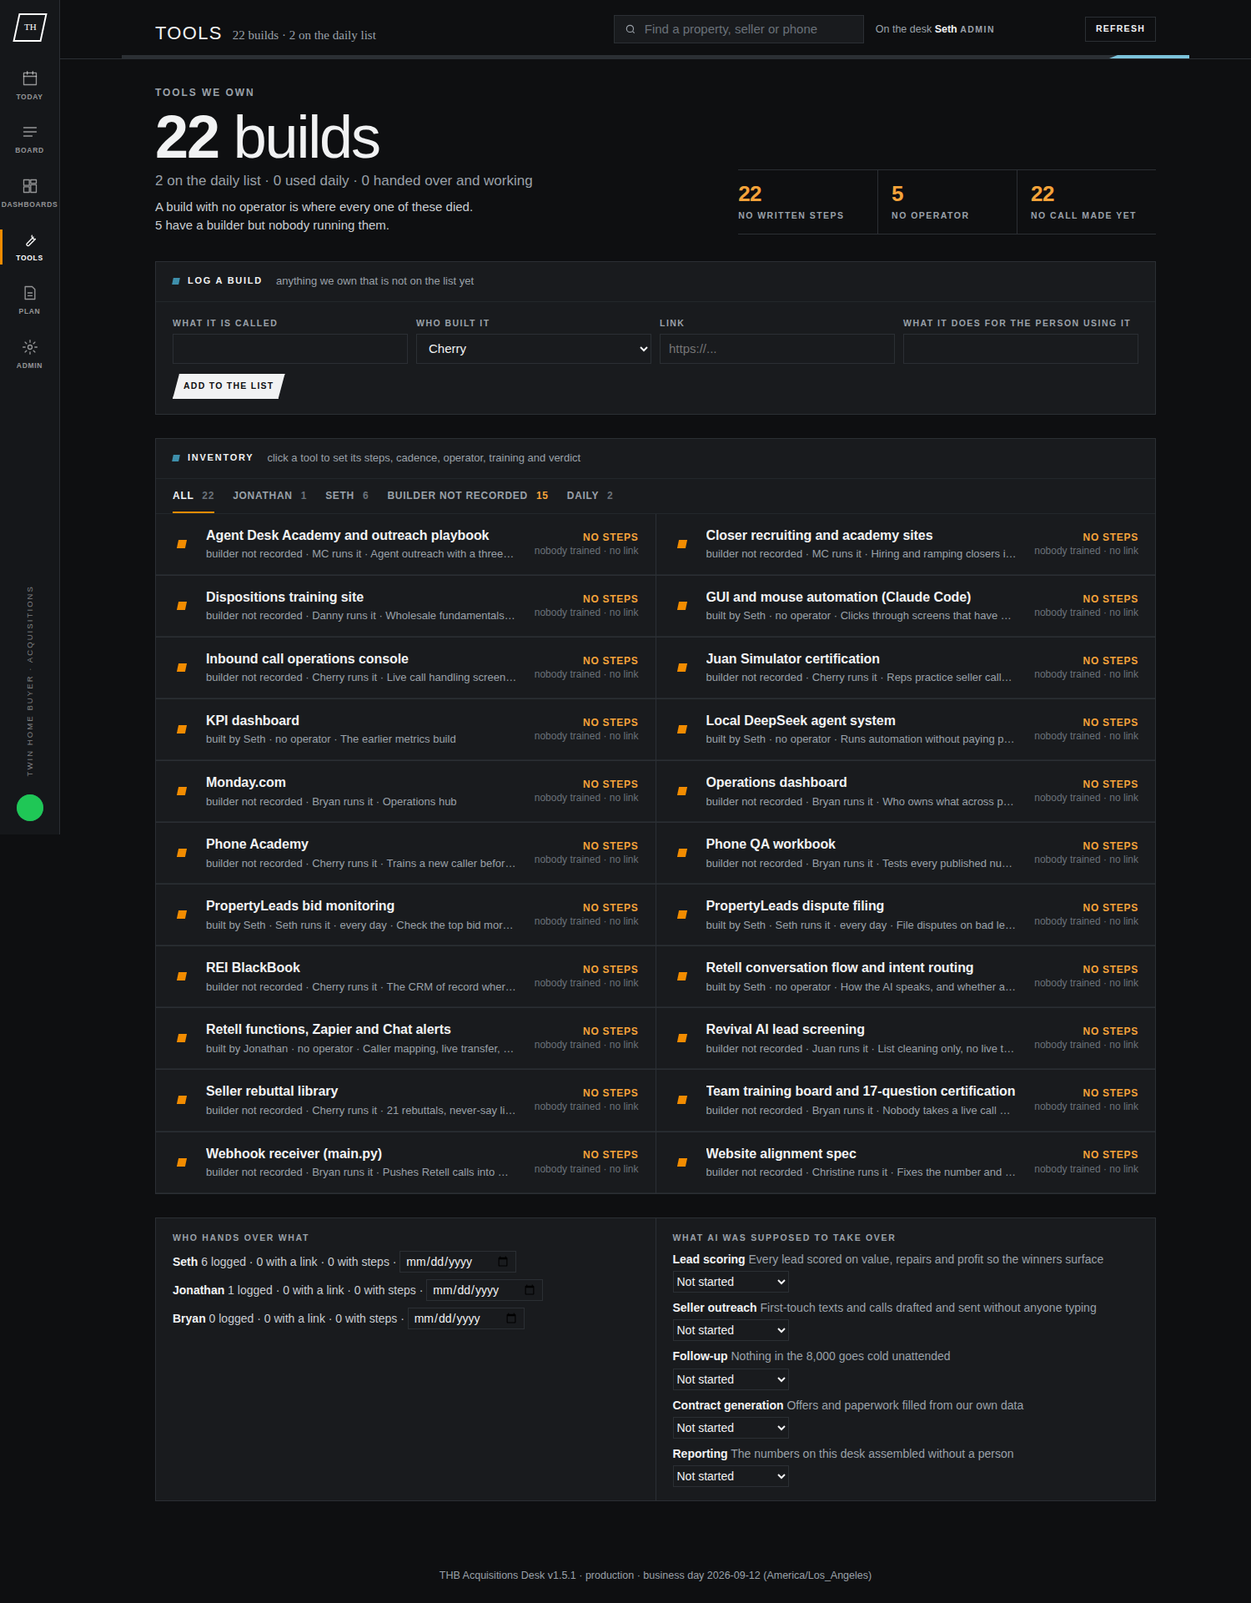
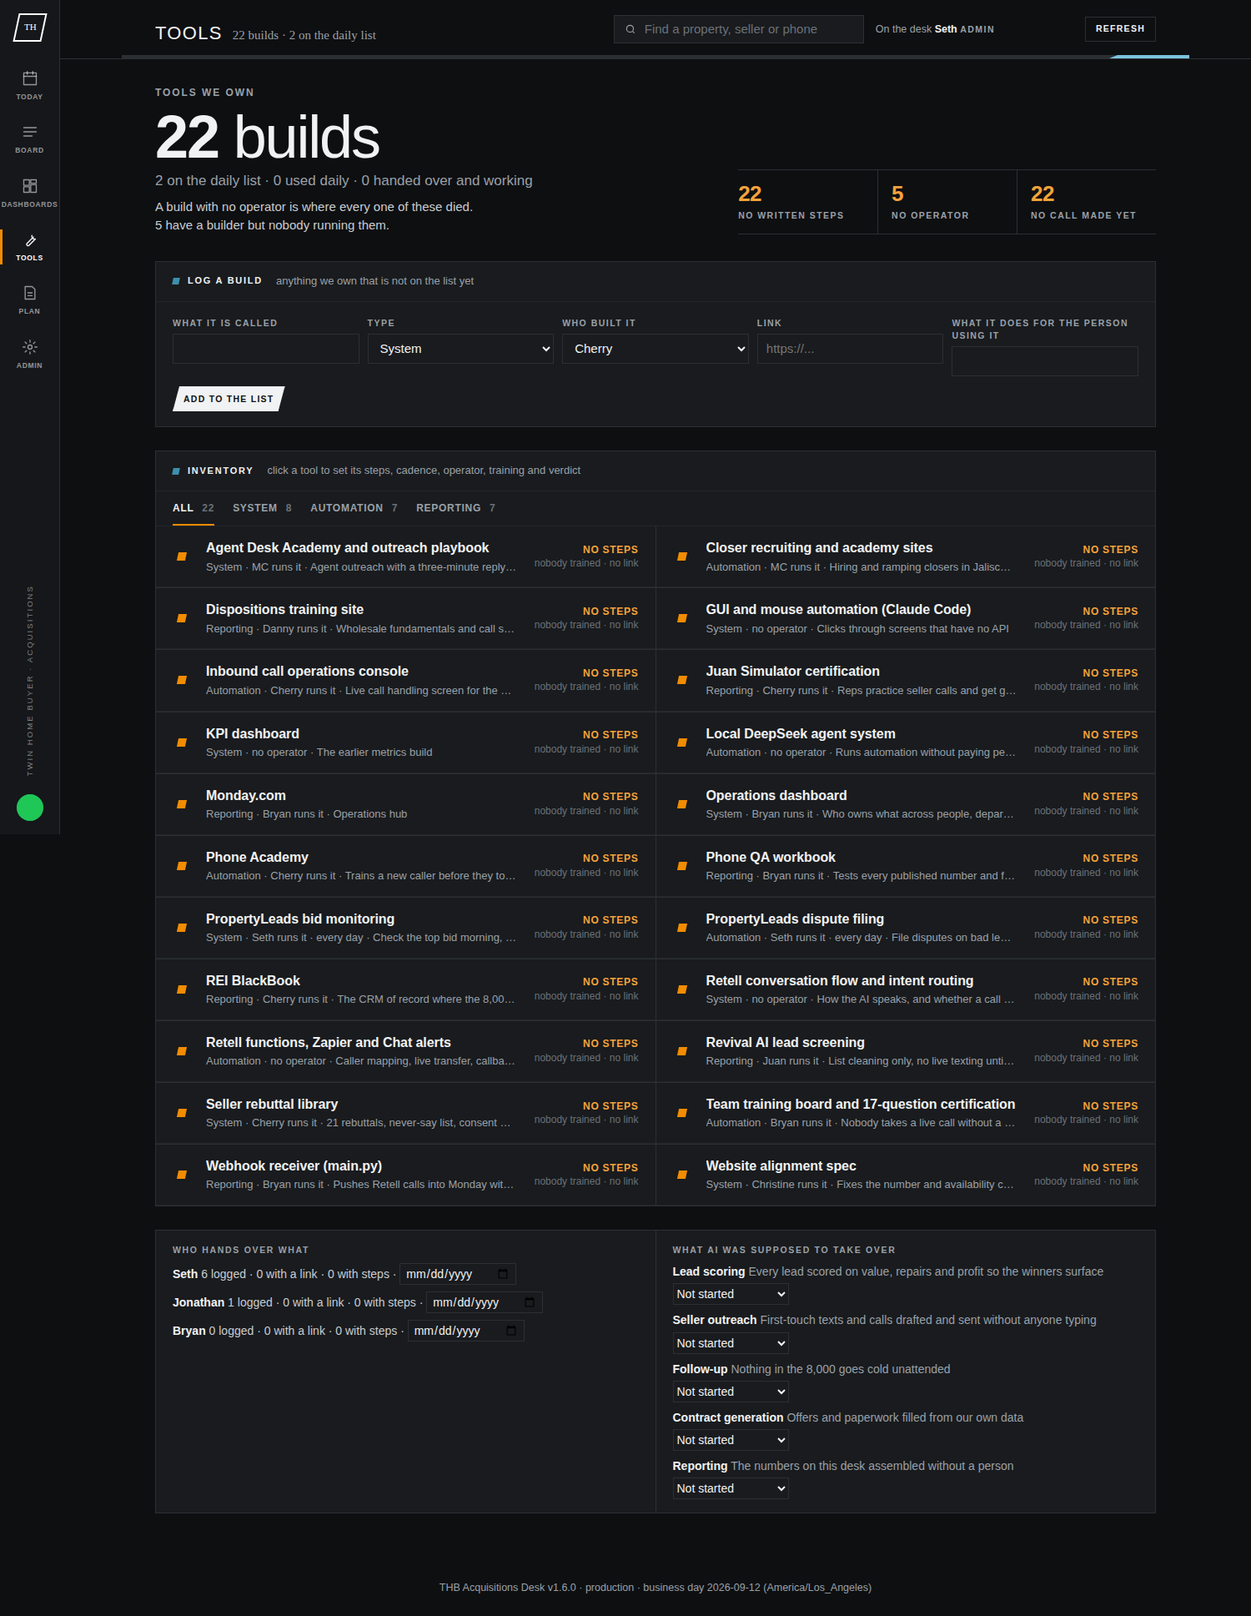
v1.6.1: filter the tool inventory by type instead of by builder
Every build gets a Type of System, Automation or Reporting. The inventory
tabs are those three plus All, set on the Log a build form and changeable on
the tool. A build with no type yet gets its own tab so nothing hides, and that
tab disappears once everything is typed. The row leads with the type in place
of the builder, who is still on the tool and in the handover panel.

Claude-Session: https://claude.ai/code/session_01PD4vD51siFq5jYyNjR6B3w

diff --git a/apps/acquisitions-desk/src/Scripts.html b/apps/acquisitions-desk/src/Scripts.html
@@ -57,6 +57,7 @@
     var f=boot.first_screen||{};
     if(f.today){todayData=f.today;today=todayData.today;juan=f.today.juan||f.juan||null;renderToday();loaded.today=true}
     if(f.board){seedBoard(f.board);loaded.leads=true}
+    $('newToolType').innerHTML=opt(C.tool_types);
     if(f.tools){toolsData=f.tools;renderTools();loaded.tools=true}
     show(prefs.tab||'today');
     if(!f.today||!f.board||!f.tools)loadAll(); /* older server, or a section this person cannot see */
@@ -372,7 +373,7 @@
   $('saveTargets').onclick=function(){$('targetMsg').textContent='Saving…';call('saveSetting','monthly_deal_target',Number($('t_deals').value)||0).then(function(){return call('saveSetting','monthly_marketing_budget',Number($('t_budget').value)||0)}).then(function(){S.monthly_deal_target=Number($('t_deals').value)||0;S.monthly_marketing_budget=Number($('t_budget').value)||0;$('targetMsg').textContent='Saved';editing=false;dashDrawn='';return loadDash().then(animateIn)}).catch(function(e){$('targetMsg').textContent=showError(e)})};
 
   /* ================= TOOLS ================= */
-  var builder='';
+  var toolType='';
   function loadTools(){return read('getTools').then(function(r){toolsData=r.data;renderTools();if(todayData){todayData.tools_today=toolsData.tools_today;renderRunsToday(toolsData.tools_today)}if(view==='tools')$('viewSub').textContent=TITLES.tools[1]()})}
   function renderTools(){var T=toolsData,tools=T.tools;
     var used=tools.filter(function(t){return t.status==='Live and used daily'}).length,nosteps=tools.filter(function(t){return !t.steps}).length,untrained=tools.filter(function(t){return !t.trained.length}).length,noop=tools.filter(function(t){return !t.operator}).length,undec=tools.filter(function(t){return (t.recommendation||'Decide')==='Decide'}).length,handed=tools.filter(function(t){return t.verdict==='Works, in use'}).length;
@@ -380,14 +381,17 @@
     $('toolNote').textContent=noop?('A build with no operator is where every one of these died. '+noop+' have a builder but nobody running them.'):nosteps?('Steps are missing on '+nosteps+' of them. A tool without steps gets used once and abandoned.'):untrained?'Every tool has steps. Now mark who is trained so it survives one person being out.':'Steps written and people trained on all of them.';
     $('toolTally').innerHTML=fact(nosteps,'no written steps',nosteps?'alert':'')+fact(noop,'no operator',noop?'alert':'')+fact(undec,'no call made yet',undec?'alert':'');
     var builders={};tools.forEach(function(t){if(t.built_by)builders[t.built_by]=(builders[t.built_by]||0)+1});
-    $('builderFilter').innerHTML='<button data-b=""'+(builder===''?' aria-selected="true"':'')+'>All <span class="c">'+tools.length+'</span></button>'+Object.keys(builders).sort().map(function(b){return '<button data-b="'+esc(b)+'"'+(builder===b?' aria-selected="true"':'')+'>'+esc(b)+' <span class="c">'+builders[b]+'</span></button>'}).join('')+'<button data-b="__none"'+(builder==='__none'?' aria-selected="true"':'')+'>Builder not recorded <span class="c hot">'+tools.filter(function(t){return !t.built_by}).length+'</span></button><button data-b="__daily"'+(builder==='__daily'?' aria-selected="true"':'')+'>Daily <span class="c">'+tools.filter(function(t){return t.is_daily}).length+'</span></button>';
-    var list=tools.filter(function(t){if(!builder)return true;if(builder==='__none')return !t.built_by;if(builder==='__daily')return t.is_daily;return t.built_by===builder});
+    var counts={};tools.forEach(function(t){var k=t.tool_type||'__none';counts[k]=(counts[k]||0)+1});
+    var tabs=[{k:'',label:'All',n:tools.length}].concat(C.tool_types.map(function(ty){return {k:ty,label:ty,n:counts[ty]||0}}));
+    if(counts.__none)tabs.push({k:'__none',label:'No type yet',n:counts.__none});
+    $('typeFilter').innerHTML=tabs.map(function(t){return '<button data-b="'+esc(t.k)+'"'+(toolType===t.k?' aria-selected="true"':'')+'>'+esc(t.label)+' <span class="c">'+t.n+'</span></button>'}).join('');
+    var list=tools.filter(function(t){return !toolType||(toolType==='__none'?!t.tool_type:t.tool_type===toolType)});
     $('toolList').innerHTML=list.length?list.map(function(t){var ok=t.verdict==='Works, in use',bad=!t.steps||!t.operator;var st=ok?'Works, in use':t.verdict==='Broken, sent back'?'Broken, sent back':!t.steps?'No steps':!t.operator?'No operator':t.verdict==='Needs training first'?'Needs training':'Not handed over';
-      return '<div class="row two clickable" id="tool-'+esc(t.tool_id)+'" data-tid="'+esc(t.tool_id)+'"><i class="sq'+(ok?' ok':bad?' alert':'')+'"></i><div><div class="t">'+esc(t.name)+'</div><div class="m">'+[t.built_by?'built by '+esc(t.built_by):'builder not recorded',t.operator?esc(t.operator)+' runs it':'no operator',t.is_daily?esc(t.cadence.toLowerCase()):'',esc(t.description)].filter(Boolean).join(' · ')+'</div></div><div class="state'+(ok?'':bad?' alert':'')+'">'+st+'<small>'+(t.trained.length?t.trained.length+' trained':'nobody trained')+(t.link?' · has a link':' · no link')+'</small></div><div class="state">'+esc(t.status)+'<small>status</small></div></div>'}).join(''):'<div class="empty">No tools in this view.</div>';
+      return '<div class="row two clickable" id="tool-'+esc(t.tool_id)+'" data-tid="'+esc(t.tool_id)+'"><i class="sq'+(ok?' ok':bad?' alert':'')+'"></i><div><div class="t">'+esc(t.name)+'</div><div class="m">'+[esc(t.tool_type),t.operator?esc(t.operator)+' runs it':'no operator',t.is_daily?esc(t.cadence.toLowerCase()):'',esc(t.description)].filter(Boolean).join(' · ')+'</div></div><div class="state'+(ok?'':bad?' alert':'')+'">'+st+'<small>'+(t.trained.length?t.trained.length+' trained':'nobody trained')+(t.link?' · has a link':' · no link')+'</small></div><div class="state">'+esc(t.status)+'<small>status</small></div></div>'}).join(''):'<div class="empty">No tools in this view.</div>';
     $('rollcall').innerHTML=T.builders.map(function(b){var mine=tools.filter(function(t){return (t.built_by||'').indexOf(b)>-1}),withLink=mine.filter(function(t){return t.link}).length,withSteps=mine.filter(function(t){return t.steps}).length;return '<p><b>'+esc(b)+'</b> '+mine.length+' logged · '+withLink+' with a link · '+withSteps+' with steps · <input type="date" data-asked="'+esc(b)+'" value="'+esc(T.asked[b]||'')+'" title="date asked" style="width:140px;height:26px;border:1px solid var(--line);background:var(--panel);padding:0 6px;color:var(--text)"'+(can('manage_tools')?'':' disabled')+'></p>'}).join('');
     $('pillars').innerHTML=T.pillars.map(function(p){return '<p><b>'+esc(p.name)+'</b> <span class="muted">'+esc(p.what)+'</span><br><select data-pillar="'+esc(p.id)+'" style="height:26px;border:1px solid var(--line);background:var(--panel);color:var(--text);margin-top:4px"'+(can('manage_tools')?'':' disabled')+'>'+opt(T.enums.pillar_states,p.state)+'</select></p>'}).join('');
     if(currentTool){var fresh=tools.filter(function(t){return t.tool_id===currentTool.tool_id})[0];if(fresh){currentTool=fresh;renderToolDrawer()}}}
-  $('builderFilter').addEventListener('click',function(e){var b=e.target.closest('button');if(!b)return;builder=b.dataset.b;renderTools()});
+  $('typeFilter').addEventListener('click',function(e){var b=e.target.closest('button');if(!b)return;toolType=b.dataset.b;renderTools()});
   $('toolList').addEventListener('click',function(e){var r=e.target.closest('[data-tid]');if(r)openTool(r.dataset.tid)});
   function openTool(id){currentTool=toolsData.tools.filter(function(t){return t.tool_id===id})[0];if(!currentTool)return;$('scrim').hidden=false;$('toolDrawer').hidden=false;$('drawer').hidden=true;$('addDrawer').hidden=true;renderToolDrawer()}
   function renderToolDrawer(){var t=currentTool,E=toolsData.enums,ro=can('manage_tools')?'':' disabled';var d=$('toolDrawer');d.dataset.tid=t.tool_id;
@@ -395,7 +399,7 @@
     $('tdLbl').textContent='Tool · '+t.tool_id;$('tdTitle').textContent=t.name;$('tdMeta').textContent=[t.description,t.built_by?'built by '+t.built_by:'',t.operator?t.operator+' runs it':''].filter(Boolean).join(' · ');
     var link=safeUrl(t.link);
     $('tdBody').innerHTML=(link?'<a class="btn ghost sm" href="'+esc(link)+'" target="_blank" rel="noopener noreferrer" style="text-decoration:none;align-self:flex-start">Open it ↗</a>':'<div class="alertbox"><b>No link saved</b>If it has no link here, nobody will find it.</div>')+
-      '<div class="spec one"><dl>'+kv('Status','<select data-tool="status"'+ro+'>'+opt(E.status,t.status)+'</select>')+kv('Recommendation','<select data-tool="recommendation"'+ro+'>'+opt(E.recommendation,t.recommendation||'Decide')+'</select>')+kv('Cadence','<select data-tool="cadence"'+ro+'>'+opt(E.cadence,t.cadence||'Not set')+'</select>')+kv('Built it','<input data-tool="built_by" value="'+esc(t.built_by)+'" placeholder="e.g. Seth"'+ro+'>')+kv('Runs it every day','<input data-tool="operator" value="'+esc(t.operator)+'" placeholder="the operator, not the builder"'+ro+'>')+kv('Covers when out','<input data-tool="backup_operator" value="'+esc(t.backup_operator)+'"'+ro+'>')+kv('Link','<input class="wide" data-tool="link" value="'+esc(t.link)+'" placeholder="https://..."'+ro+'>')+kv('Looks right when','<input class="wide" data-tool="expected_output" value="'+esc(t.expected_output)+'" placeholder="e.g. a fresh list in the export folder"'+ro+'>')+kv('Asked builder for steps','<input type="date" data-tool="asked_date" value="'+esc(t.asked_date)+'"'+ro+'>')+kv('Handed to the user on','<input type="date" data-tool="handoff_date" value="'+esc(t.handoff_date)+'"'+ro+'>')+kv('User verdict','<select data-tool="verdict"'+ro+'>'+opt(E.verdict,t.verdict||'Not handed over yet')+'</select>')+kv('Produced last week','<input class="wide" data-tool="proof_last_week" value="'+esc(t.proof_last_week)+'" placeholder="e.g. 340 records cleared, 12 callbacks"'+ro+'>')+'</dl></div>'+
+      '<div class="spec one"><dl>'+kv('Type','<select data-tool="tool_type"'+ro+'>'+opt([''].concat(C.tool_types),t.tool_type)+'</select>')+kv('Status','<select data-tool="status"'+ro+'>'+opt(E.status,t.status)+'</select>')+kv('Recommendation','<select data-tool="recommendation"'+ro+'>'+opt(E.recommendation,t.recommendation||'Decide')+'</select>')+kv('Cadence','<select data-tool="cadence"'+ro+'>'+opt(E.cadence,t.cadence||'Not set')+'</select>')+kv('Built it','<input data-tool="built_by" value="'+esc(t.built_by)+'" placeholder="e.g. Seth"'+ro+'>')+kv('Runs it every day','<input data-tool="operator" value="'+esc(t.operator)+'" placeholder="the operator, not the builder"'+ro+'>')+kv('Covers when out','<input data-tool="backup_operator" value="'+esc(t.backup_operator)+'"'+ro+'>')+kv('Link','<input class="wide" data-tool="link" value="'+esc(t.link)+'" placeholder="https://..."'+ro+'>')+kv('Looks right when','<input class="wide" data-tool="expected_output" value="'+esc(t.expected_output)+'" placeholder="e.g. a fresh list in the export folder"'+ro+'>')+kv('Asked builder for steps','<input type="date" data-tool="asked_date" value="'+esc(t.asked_date)+'"'+ro+'>')+kv('Handed to the user on','<input type="date" data-tool="handoff_date" value="'+esc(t.handoff_date)+'"'+ro+'>')+kv('User verdict','<select data-tool="verdict"'+ro+'>'+opt(E.verdict,t.verdict||'Not handed over yet')+'</select>')+kv('Produced last week','<input class="wide" data-tool="proof_last_week" value="'+esc(t.proof_last_week)+'" placeholder="e.g. 340 records cleared, 12 callbacks"'+ro+'>')+'</dl></div>'+
       '<div class="field"><label>Steps to run it</label><textarea data-tool="steps" rows="5" placeholder="1. Open ... 2. Run ... 3. Export ..."'+ro+'>'+esc(t.steps)+'</textarea></div>'+
       '<div><div class="lbl" style="margin-bottom:8px">Trained and able to run it alone</div><div class="actions">'+toolsData.people.map(function(p){var on=t.trained.some(function(x){return x.user_id===p.user_id});return '<button class="btn sm'+(on?'':' ghost')+'" data-trained="'+esc(p.user_id)+'" data-on="'+(on?1:0)+'"'+ro+'>'+esc(p.name)+'</button>'}).join('')+'</div></div>';
     if(keep){var f=$('tdBody').querySelector(keep.sel);if(f){f.value=keep.value;f.focus();try{if(keep.s!=null)f.setSelectionRange(keep.s,keep.e)}catch(e){}}}}
@@ -407,7 +411,7 @@
   $('toolDrawer').addEventListener('click',function(e){var b=e.target.closest('button[data-trained]');if(!b||!currentTool)return;b.disabled=true;call('setToolTraining',currentTool.tool_id,b.dataset.trained,b.dataset.on!=='1','').then(loadTools).catch(function(e){showError(e);b.disabled=false})});
   $('view-tools').addEventListener('change',function(e){var t=e.target;if(t.dataset.pillar)call('saveSetting','pillar_'+t.dataset.pillar,t.value).then(loadTools).catch(showError)});
   $('view-tools').addEventListener('blur',function(e){var t=e.target;if(t.dataset.asked!=null&&toolsData&&toolsData.asked[t.dataset.asked]!==t.value)call('saveSetting','asked_'+t.dataset.asked,t.value).then(loadTools).catch(showError)},true);
-  $('addTool').onclick=function(){var nm=$('newTool').value.trim();if(!nm)return;$('addToolMsg').textContent='Adding…';call('createTool',{name:nm,built_by:$('newToolOwner').value,link:$('newToolLink').value.trim(),description:$('newToolJob').value.trim()}).then(function(r){$('newTool').value='';$('newToolLink').value='';$('newToolJob').value='';$('addToolMsg').textContent=r.message;return loadTools()}).catch(function(e){$('addToolMsg').textContent=showError(e)})};
+  $('addTool').onclick=function(){var nm=$('newTool').value.trim();if(!nm)return;$('addToolMsg').textContent='Adding…';call('createTool',{name:nm,tool_type:$('newToolType').value,built_by:$('newToolOwner').value,link:$('newToolLink').value.trim(),description:$('newToolJob').value.trim()}).then(function(r){$('newTool').value='';$('newToolLink').value='';$('newToolJob').value='';$('addToolMsg').textContent=r.message;return loadTools()}).catch(function(e){$('addToolMsg').textContent=showError(e)})};
 
   /* ================= ADMIN ================= */
   var SETTING_FIELDS=[['mao_percentage','MAO % of ARV'],['stale_lead_days','Stale after (days)'],['cpl_ceiling','Cost per lead ceiling $'],['speed_target_minutes','Speed to first call target (min)'],['auto_refresh_seconds','Auto refresh (seconds, 0 = off)'],['business_timezone','Business timezone'],['live_list_target','Live list target'],['page_size','Records per page (10-200)'],['monthly_deal_target','Deals target per month'],['monthly_marketing_budget','Marketing budget per month $']];

diff --git a/apps/acquisitions-desk/test/e2e.js b/apps/acquisitions-desk/test/e2e.js
@@ -117,6 +117,22 @@ const assert = (c, m) => { if (!c) throw new Error(m); };
     await A.click('#sub-dash [data-d=pipeline]'); assert((await A.locator('#funnel .stage').count()) === 6, 'six funnel stages');
     await A.click('#sub-dash [data-d=discipline]'); await A.waitForFunction(() => document.querySelectorAll('#cal i.logged').length >= 1, 'today logged in calendar');
   });
+  await test('tools: the inventory filters by type, not by who built it', async () => {
+    await tab(A, 'tools'); await A.waitForFunction(() => document.querySelectorAll('#typeFilter button').length > 0);
+    const labels = await A.$$eval('#typeFilter button', b => b.map(x => x.textContent.replace(/\s+\d+$/, '').trim()));
+    assert(labels[0] === 'All' && labels.includes('System') && labels.includes('Automation') && labels.includes('Reporting'), 'type tabs: ' + labels.join(', '));
+    assert(!labels.some(l => /Seth|Cherry|Bryan|Jonathan|Builder/.test(l)), 'no builder tabs left: ' + labels.join(', '));
+    const id = await A.$eval('#toolList .row', r => r.dataset.tid);
+    await A.click('#tool-' + id); await A.waitForSelector('#toolDrawer:not([hidden])');
+    await A.selectOption('#toolDrawer [data-tool="tool_type"]', 'Automation');
+    await A.waitForFunction(() => document.getElementById('tdStatus').textContent === 'Saved', null, { timeout: 10000 });
+    await A.keyboard.press('Escape');
+    await A.click('#typeFilter button[data-b="Automation"]');
+    await A.waitForFunction(i => document.getElementById('toolList').textContent.length > 0 && document.querySelectorAll('#toolList .row').length >= 1 && !!document.getElementById('tool-' + i), id);
+    await A.click('#typeFilter button[data-b="Reporting"]');
+    await A.waitForFunction(i => !document.getElementById('tool-' + i), id, { timeout: 10000 });
+    await A.click('#typeFilter button[data-b=""]');
+  });
   await test('tools: daily list, training from USERS, mark run / undo on Today', async () => {
     await tab(A, 'tools'); await A.waitForSelector('#tool-plbids'); assert((await A.textContent('#tool-plbids')).includes('every day'), 'seeded daily');
     await A.click('#tool-plbids'); await A.waitForSelector('#toolDrawer:not([hidden])'); await A.click('#toolDrawer [data-trained="USR-CHERRY"]'); await A.waitForFunction(() => document.getElementById('tool-plbids').textContent.includes('1 trained')); await A.keyboard.press('Escape');

diff --git a/apps/acquisitions-desk/src/Styles.html b/apps/acquisitions-desk/src/Styles.html
@@ -170,6 +170,7 @@
   .quiet{display:grid;grid-template-columns:repeat(3,minmax(0,1fr));gap:1px;background:var(--line);border:1px solid var(--line)}
   .quiet.two{grid-template-columns:repeat(2,minmax(0,1fr))}
   .g4{display:grid;grid-template-columns:repeat(4,minmax(0,1fr));gap:10px}
+  .g5{display:grid;grid-template-columns:repeat(5,minmax(0,1fr));gap:10px}
   .cols2{display:grid;grid-template-columns:repeat(2,minmax(0,1fr));gap:1px;background:var(--line)}
   .cols2 .row.two{grid-template-columns:22px minmax(0,1fr) 128px;background:var(--panel)}
   .cols2 .row.two .state:last-child{display:none} /* the status repeats what the middle column already says */
@@ -267,7 +268,7 @@
   @media (max-width:1100px){.hero{grid-template-columns:1fr} .facts{max-width:640px}}
   @media (max-width:900px){
     .card.c6,.card.c4,.card.c8,.card.c3{grid-column:span 12} .stage{grid-template-columns:100px 1fr 90px} .stage .conv small{display:none} .cal{grid-template-columns:repeat(10,1fr)} .heat{grid-template-columns:90px repeat(14,1fr)}
-    .spec{grid-template-columns:1fr} .quiet,.quiet.two{grid-template-columns:1fr} .g3{grid-template-columns:1fr 1fr} .g4{grid-template-columns:1fr 1fr} .cols2{grid-template-columns:1fr}
+    .spec{grid-template-columns:1fr} .quiet,.quiet.two{grid-template-columns:1fr} .g3{grid-template-columns:1fr 1fr} .g4,.g5{grid-template-columns:1fr 1fr} .cols2{grid-template-columns:1fr}
     .row,.row.two{grid-template-columns:22px minmax(0,1fr)} .row .state{text-align:left;grid-column:2} .row .money{grid-column:2;justify-content:flex-start;gap:20px} .row .acts{grid-column:2;justify-content:flex-start}
   }
   @media (max-width:720px){

diff --git a/apps/acquisitions-desk/src/Index.html b/apps/acquisitions-desk/src/Index.html
@@ -171,8 +171,9 @@
       <div class="sheet" id="addToolSheet">
         <div class="head"><h2>Log a build</h2><span class="hint">anything we own that is not on the list yet</span></div>
         <div class="body">
-          <div class="g4">
+          <div class="g5">
             <div class="field"><label for="newTool">What it is called</label><input id="newTool"></div>
+            <div class="field"><label for="newToolType">Type</label><select id="newToolType"></select></div>
             <div class="field"><label for="newToolOwner">Who built it</label><select id="newToolOwner"><option>Cherry</option><option>Seth</option><option>Bryan</option><option>Jonathan</option><option>Someone else</option></select></div>
             <div class="field"><label for="newToolLink">Link</label><input id="newToolLink" placeholder="https://..."></div>
             <div class="field"><label for="newToolJob">What it does for the person using it</label><input id="newToolJob"></div>
@@ -182,7 +183,7 @@
       </div>
       <div class="sheet">
         <div class="head"><h2>Inventory</h2><span class="hint">click a tool to set its steps, cadence, operator, training and verdict</span></div>
-        <div class="tabs" id="builderFilter"></div>
+        <div class="tabs" id="typeFilter"></div>
         <div id="toolList" class="cols2"></div>
       </div>
       <div class="quiet two">

diff --git a/apps/acquisitions-desk/DEPLOY.md b/apps/acquisitions-desk/DEPLOY.md
@@ -318,13 +318,21 @@ like "high equity", "liens noted" and "co-trustee is signing contact" survive.
 
 ## Updating to v1.6.0 (Tools page, and emptying the inventory)
 
-No database change: `git pull`, `clasp push --force`, then New version `v1.6.0` → Deploy.
+No database change: `git pull`, `clasp push --force`, then New version `v1.6.1` → Deploy.
 
 - **Log a build sits at the top of the Tools page**, as one row of four fields, so adding something does not mean
   scrolling past everything already there.
 - **The inventory is two columns**, which halves the scroll. The status column was dropped from the row because the
   middle column already says the same thing; it is still in the tool's drawer.
 - **Date asked** under "Who hands over what" is a date picker rather than free text.
+
+### The inventory filters by type
+
+Every build has a **Type**: System, Automation or Reporting. The tabs above the inventory are those three plus All,
+instead of one tab per builder. Type is set on the Log a build form and can be changed on the tool itself. A build
+with no type yet gets a "No type yet" tab so nothing hides; that tab disappears once everything is typed.
+
+Who built what did not go away. It is on the tool and in the "Who hands over what" panel at the bottom of the page.
 
 ### Emptying the tool inventory before entering real builds
 
